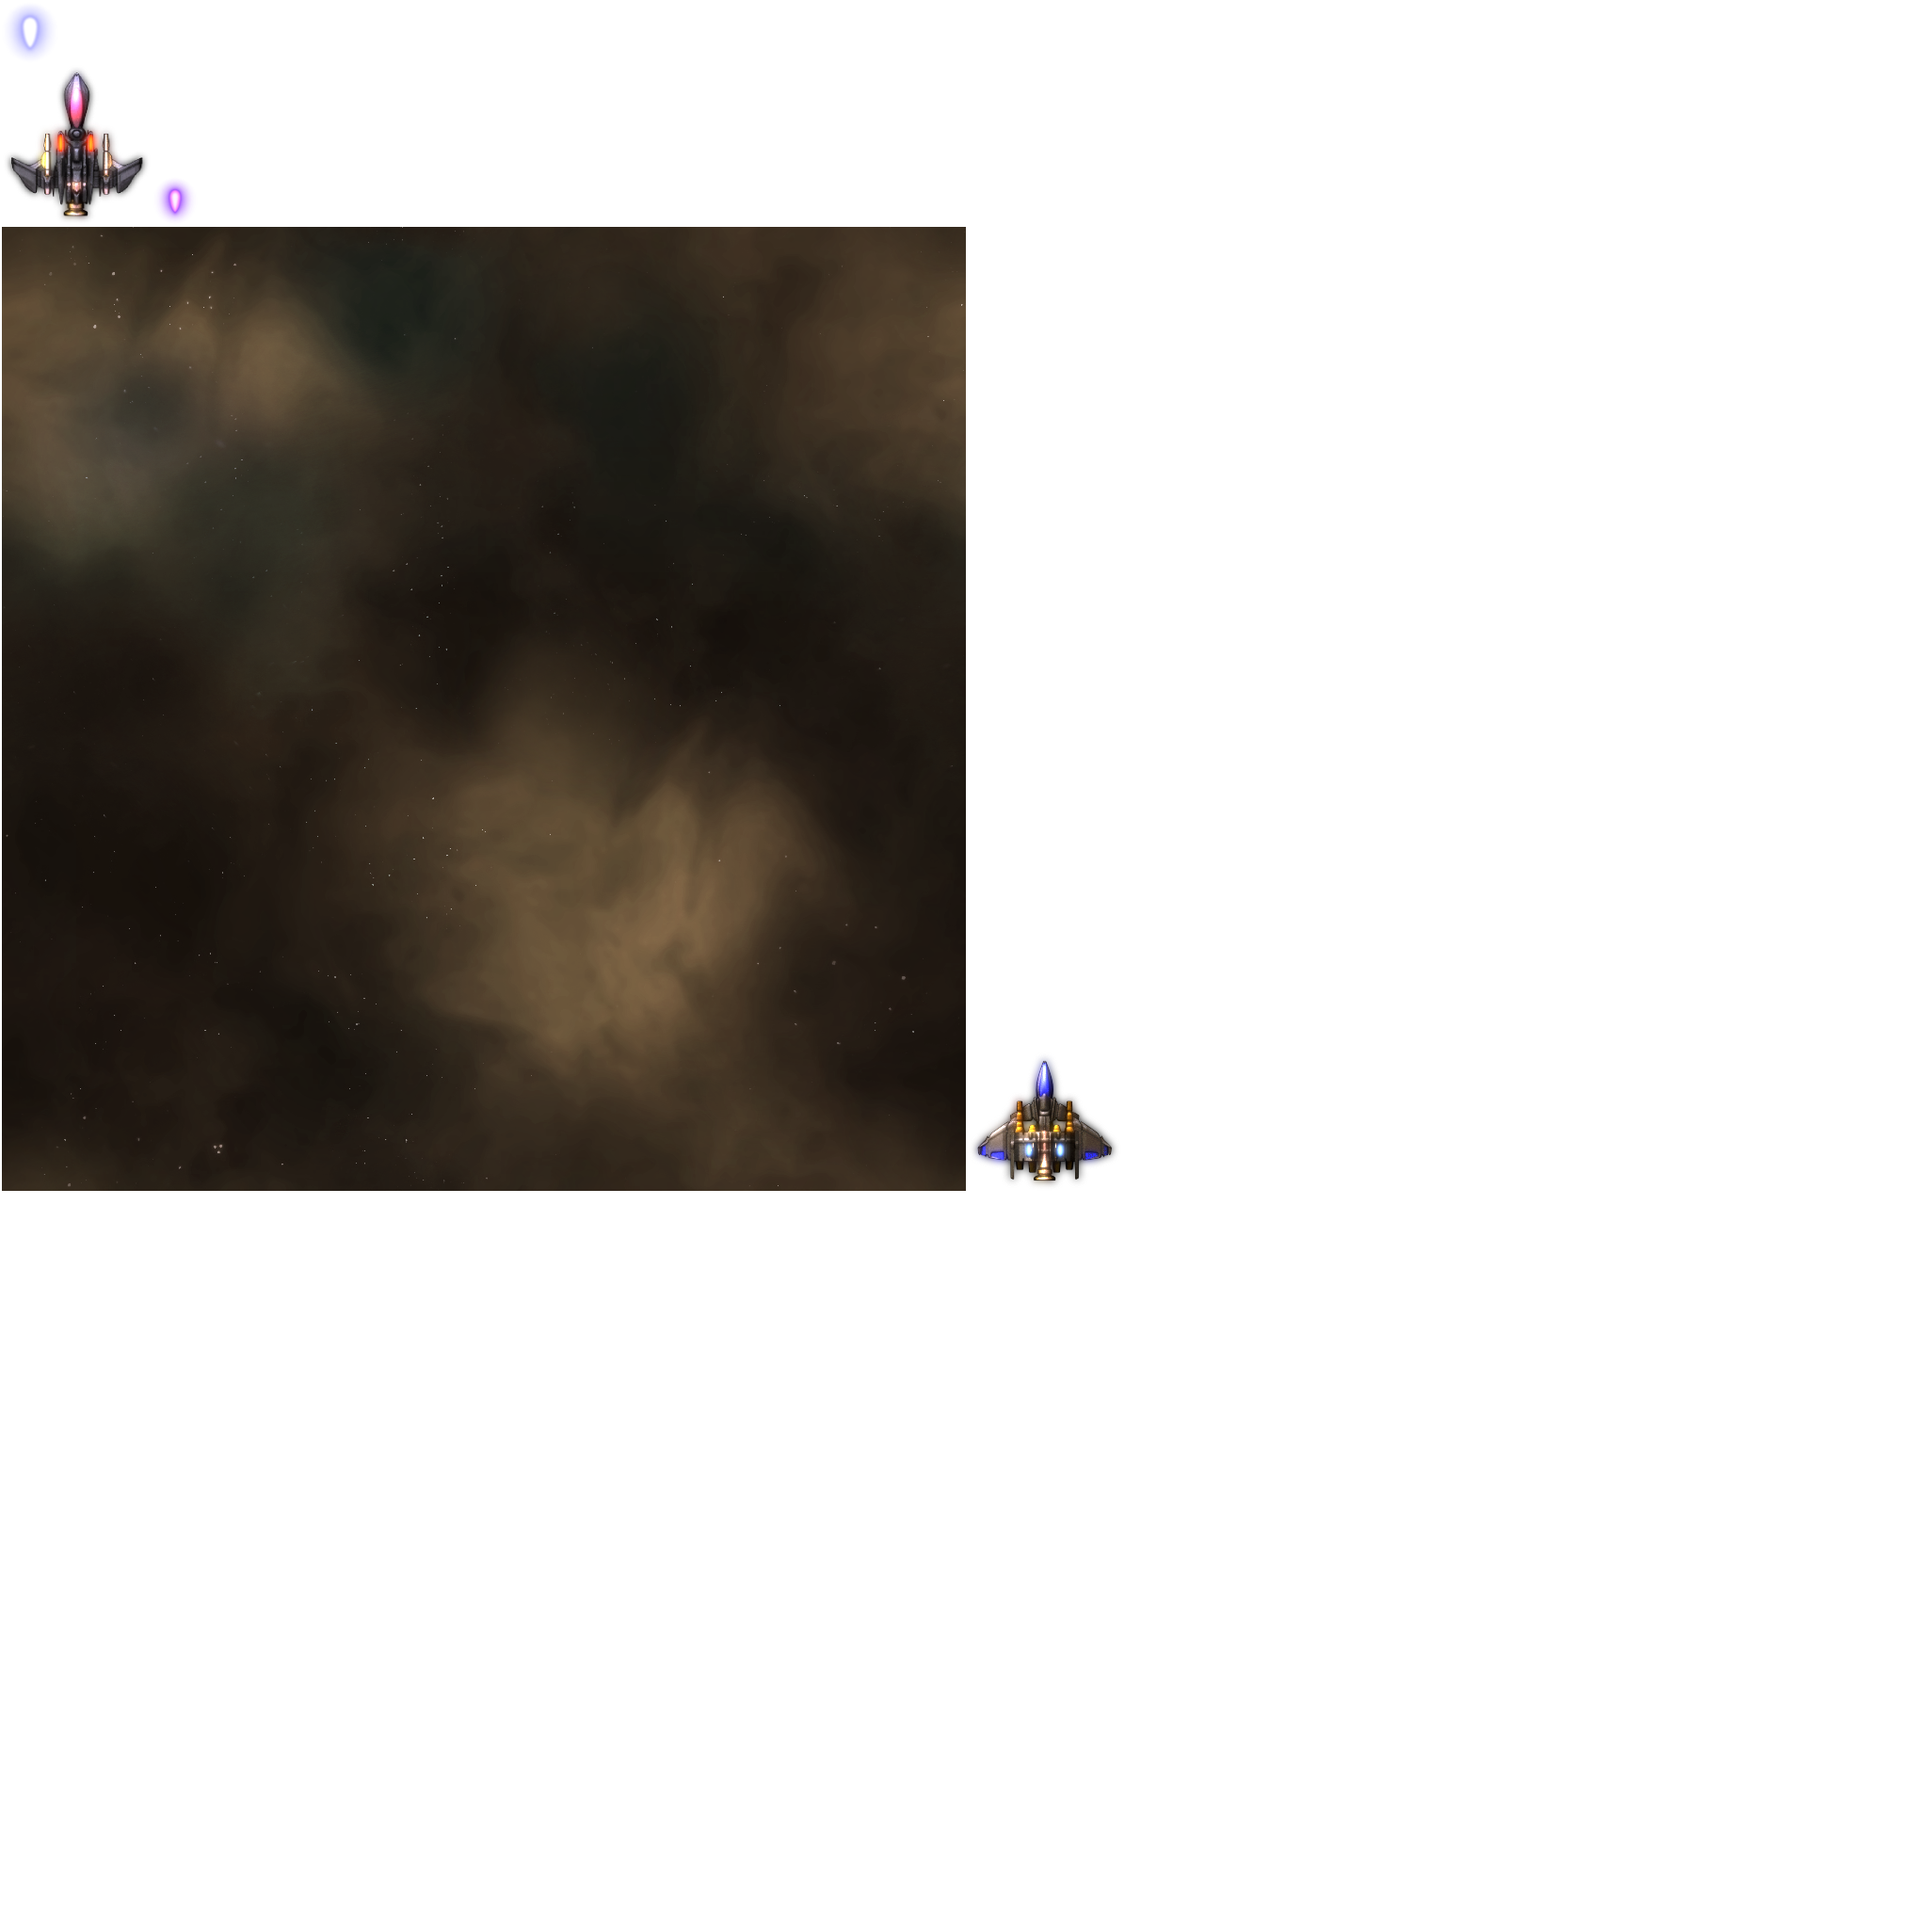
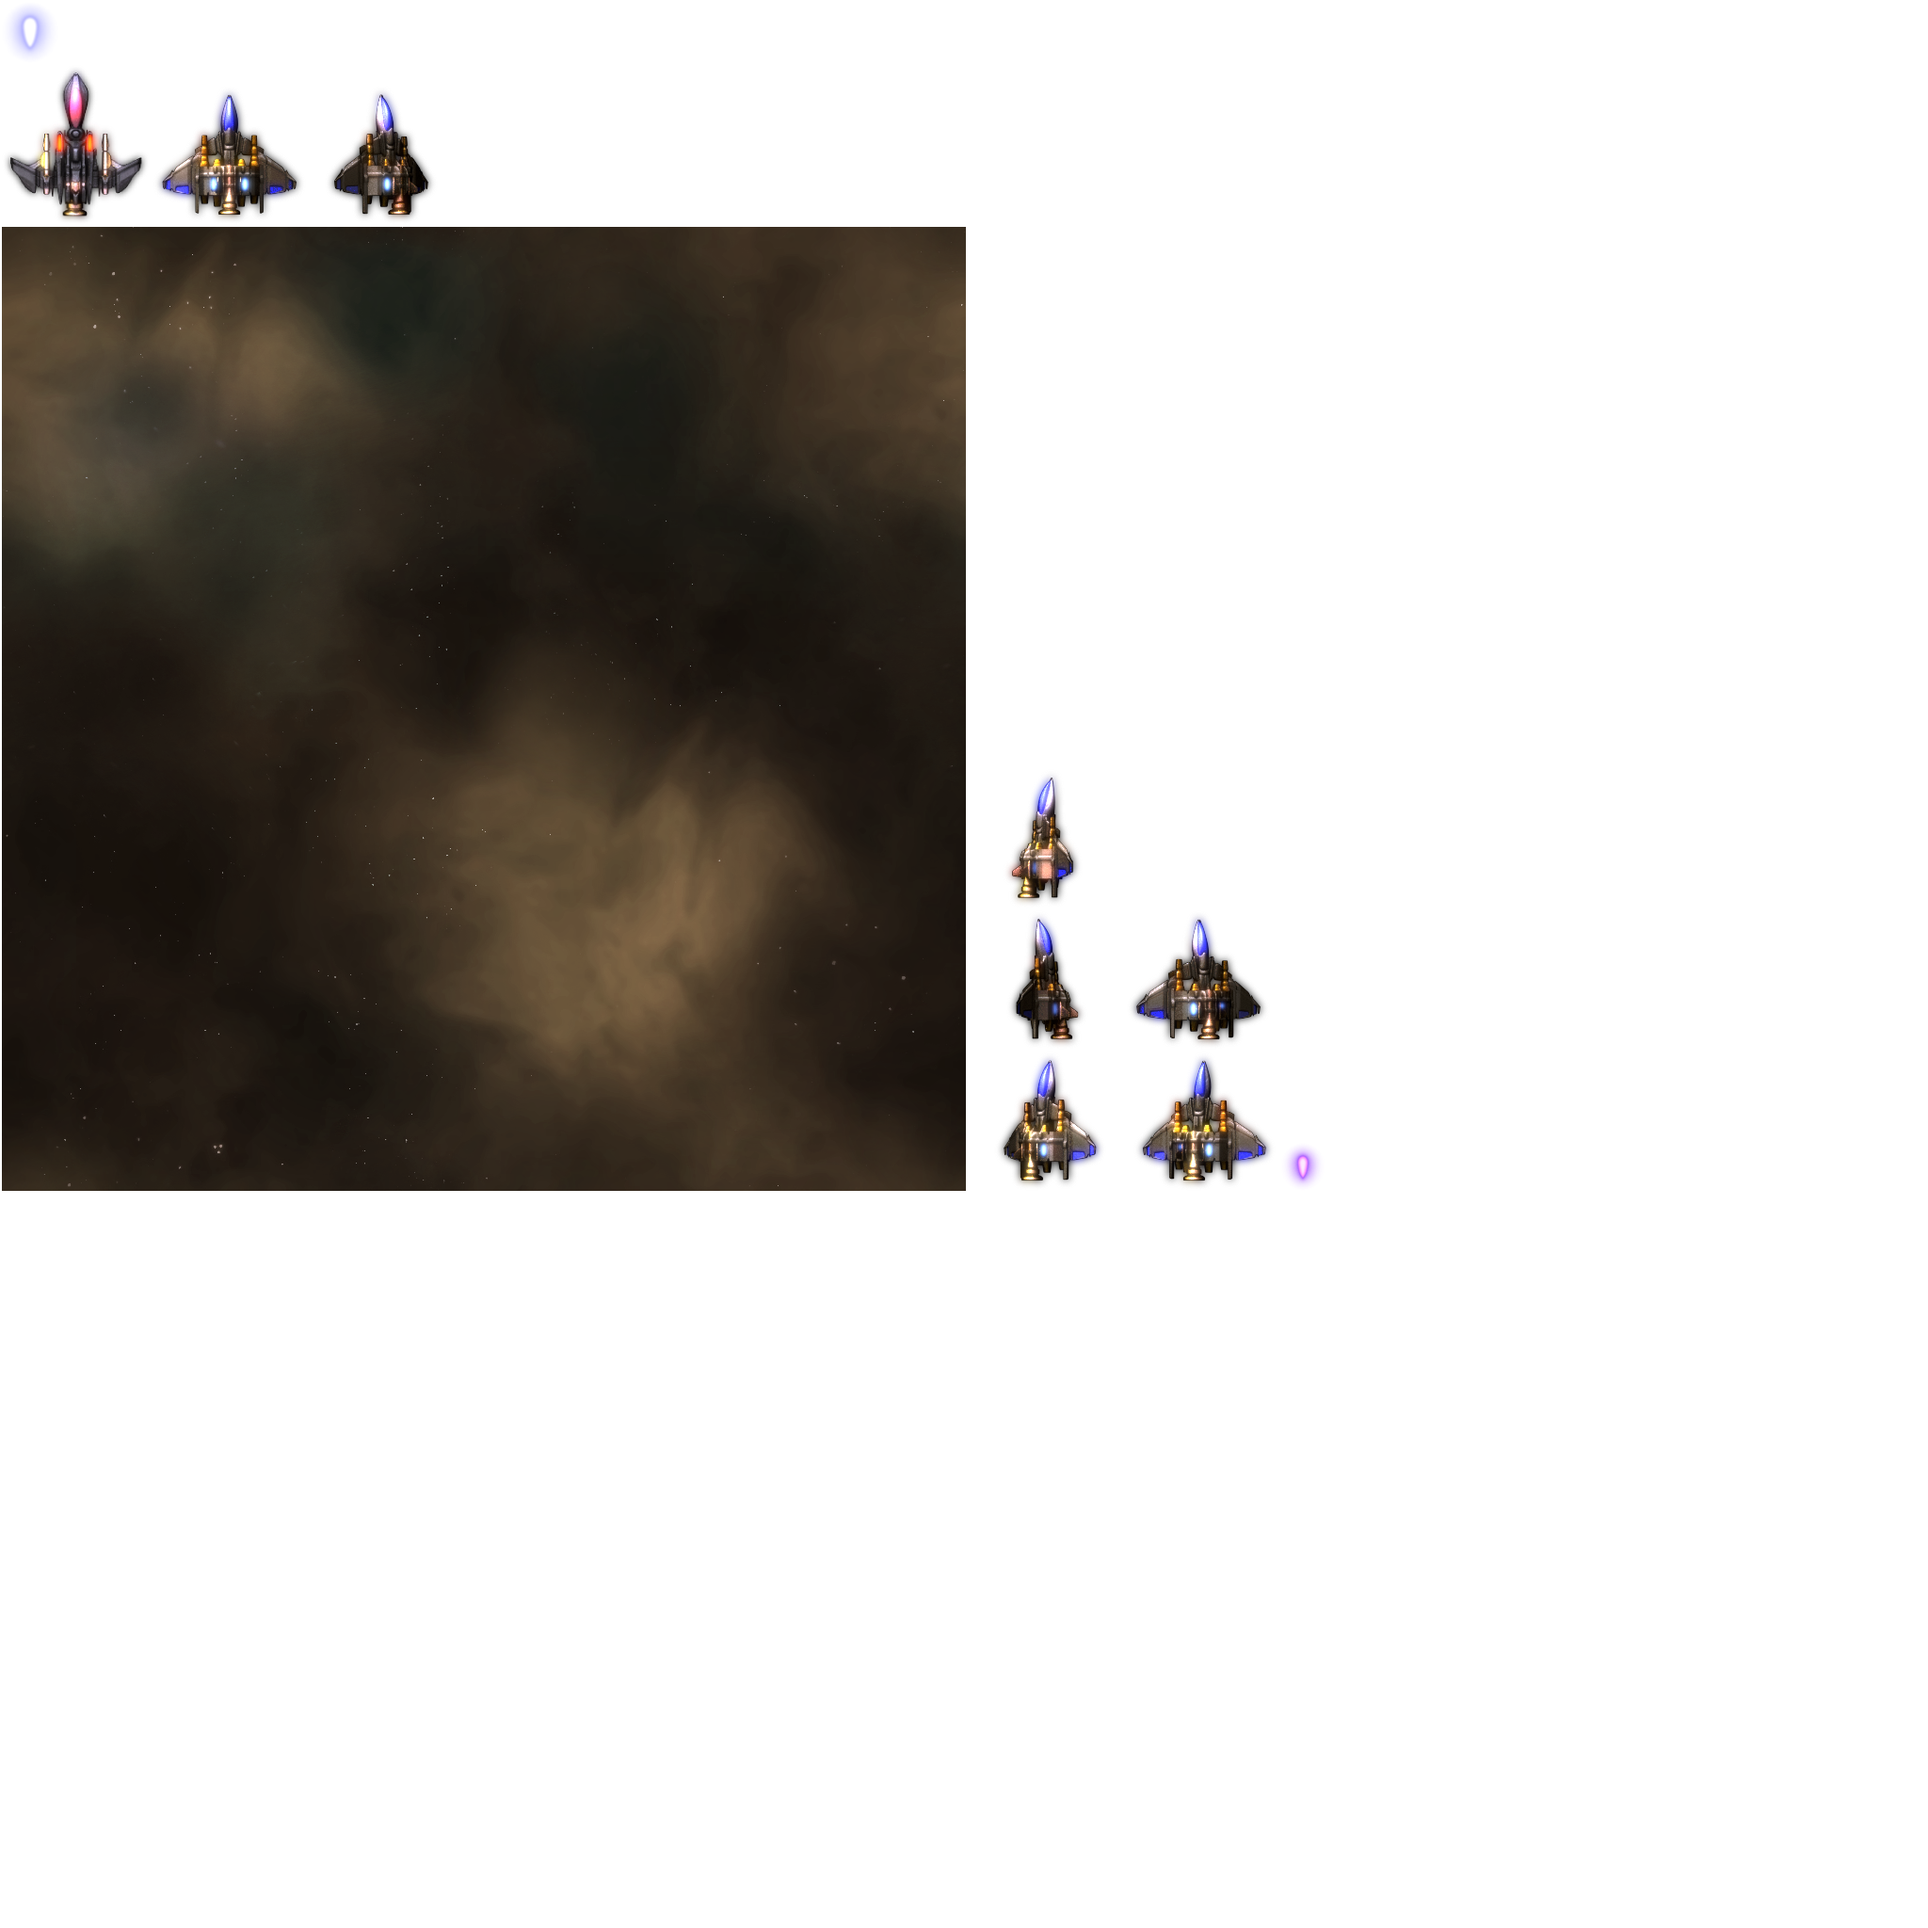
updated method moveShip in PlayerShip class with changing texture

Changed region(s): [[0.5, 0.4062, 0.6875, 0.625], [0.0, 0.0312, 0.2188, 0.125]]

diff --git a/core/src/pl/oldcotage/simplegame/screens/GameScreen.java b/core/src/pl/oldcotage/simplegame/screens/GameScreen.java
@@ -8,6 +8,8 @@ import com.badlogic.gdx.graphics.g2d.TextureAtlas;
 import com.badlogic.gdx.graphics.g2d.TextureRegion;
 
 
+import java.util.ArrayList;
+import java.util.Arrays;
 import java.util.LinkedList;
 import java.util.ListIterator;
 
@@ -53,16 +55,16 @@ public class GameScreen implements Screen {
         enemyLaserTextureRegion = textureAtlas.findRegion("pink_bullet");
 
         //setUp game objects
-        playerShip = new PlayerShip(GameRunner.WIDTH / 2, GameRunner.HEIGHT / 4,
+        playerShip = new PlayerShip((float) GameRunner.WIDTH / 2, (float)GameRunner.HEIGHT / 4,
                 50, 50,
-                2, 4,
+                15, 4,
                 0.4f, 4, 45, 0.5f,
                 playerShipTextureRegion, playerLaserTextureRegion);
 
-        enemyShip = new EnemyShip(GameRunner.WIDTH / 2, GameRunner.HEIGHT * 3 / 4,
+        enemyShip = new EnemyShip((float)GameRunner.WIDTH / 2, (float) GameRunner.HEIGHT * 3 / 4,
                 50, 50,
                 2, 1, 0.3f, 5,
-                50, 0.8f,
+                50, 0.9f,
                 enemyShipTextureRegion, enemyLaserTextureRegion);
 
 
@@ -78,7 +80,6 @@ public class GameScreen implements Screen {
     @Override
     public void render(float delta) {
         batch.begin();
-
         playerShip.update(delta);
         enemyShip.update(delta);
         // scrolling background
@@ -92,16 +93,12 @@ public class GameScreen implements Screen {
         //player lasers
         if (playerShip.canFireLaser()) {
             Laser[] lasers = playerShip.fireLasers();
-            for (Laser laser : lasers) {
-                playerLaserList.add(laser);
-            }
+            playerLaserList.addAll(Arrays.asList(lasers));
         }
         //enemy lasers
         if (enemyShip.canFireLaser()) {
             Laser[] lasers = enemyShip.fireLasers();
-            for (Laser laser : lasers) {
-                enemyLaserList.add(laser);
-            }
+            enemyLaserList.addAll(Arrays.asList(lasers));
         }
         //draw lasers
         //remove lasers
@@ -125,24 +122,13 @@ public class GameScreen implements Screen {
             }
         }
 
-        // move ship
-        movingShip();
+        playerShip.movingShip(textureAtlas);
 
         batch.end();
     }
 
-    private void movingShip() {
-        if (Gdx.input.isKeyPressed(Input.Keys.LEFT)) {
-            float x = playerShip.getPosition();
-            x--;
-            playerShip.setPosition(x);
-        }
-        if (Gdx.input.isKeyPressed(Input.Keys.RIGHT)) {
-            float x = playerShip.getPosition();
-            x++;
-            playerShip.setPosition(x);
-        }
-    }
+    //method for moving ship and rendering
+
 
 
     @Override

diff --git a/core/src/pl/oldcotage/simplegame/objects/PlayerShip.java b/core/src/pl/oldcotage/simplegame/objects/PlayerShip.java
@@ -1,5 +1,8 @@
 package pl.oldcotage.simplegame.objects;
 
+import com.badlogic.gdx.Gdx;
+import com.badlogic.gdx.Input;
+import com.badlogic.gdx.graphics.g2d.TextureAtlas;
 import com.badlogic.gdx.graphics.g2d.TextureRegion;
 
 import pl.oldcotage.simplegame.objects.weapons.Laser;
@@ -33,5 +36,19 @@ public class PlayerShip extends Ship {
         timeSinceLastShot = 0;
 
         return laser;
+    }
+    @Override
+    public void movingShip(TextureAtlas textureAtlas) {
+        if (Gdx.input.isKeyPressed(Input.Keys.LEFT)) {
+            xPosition--;
+            setPosition(xPosition);
+            setShipTextureRegion(textureAtlas.findRegion("player_ship_left_2"));
+        } else if (Gdx.input.isKeyPressed(Input.Keys.RIGHT)) {
+            xPosition++;
+            setPosition(xPosition);
+            setShipTextureRegion(textureAtlas.findRegion("player_ship_right_2"));
+        }else{
+            setShipTextureRegion(textureAtlas.findRegion("player_ship"));
+        }
     }
 }

diff --git a/core/src/pl/oldcotage/simplegame/objects/Ship.java b/core/src/pl/oldcotage/simplegame/objects/Ship.java
@@ -1,6 +1,7 @@
 package pl.oldcotage.simplegame.objects;
 
 import com.badlogic.gdx.graphics.g2d.Batch;
+import com.badlogic.gdx.graphics.g2d.TextureAtlas;
 import com.badlogic.gdx.graphics.g2d.TextureRegion;
 
 import pl.oldcotage.simplegame.objects.weapons.Laser;
@@ -43,6 +44,10 @@ abstract public class Ship {
         this.laserMovementSpeed = laserMovementSpeed;
     }
 
+    public void setShipTextureRegion(TextureRegion shipTextureRegion) {
+        this.shipTextureRegion = shipTextureRegion;
+    }
+
     public void update(float deltaTime) {
         timeSinceLastShot += deltaTime;
     }
@@ -52,6 +57,7 @@ abstract public class Ship {
     }
 
     public abstract Laser[] fireLasers();
+    public abstract void movingShip(TextureAtlas textureAtlas);
 
     public void draw(Batch batch) {
         batch.draw(shipTextureRegion, xPosition, yPosition, width, height);

diff --git a/core/src/pl/oldcotage/simplegame/objects/enemies/EnemyShip.java b/core/src/pl/oldcotage/simplegame/objects/enemies/EnemyShip.java
@@ -1,5 +1,6 @@
 package pl.oldcotage.simplegame.objects.enemies;
 
+import com.badlogic.gdx.graphics.g2d.TextureAtlas;
 import com.badlogic.gdx.graphics.g2d.TextureRegion;
 
 import pl.oldcotage.simplegame.objects.weapons.Laser;
@@ -33,5 +34,10 @@ public class EnemyShip extends Ship {
         timeSinceLastShot = 0;
 
         return laser;
+    }
+
+    @Override
+    public void movingShip(TextureAtlas textureAtlas) {
+
     }
 }
